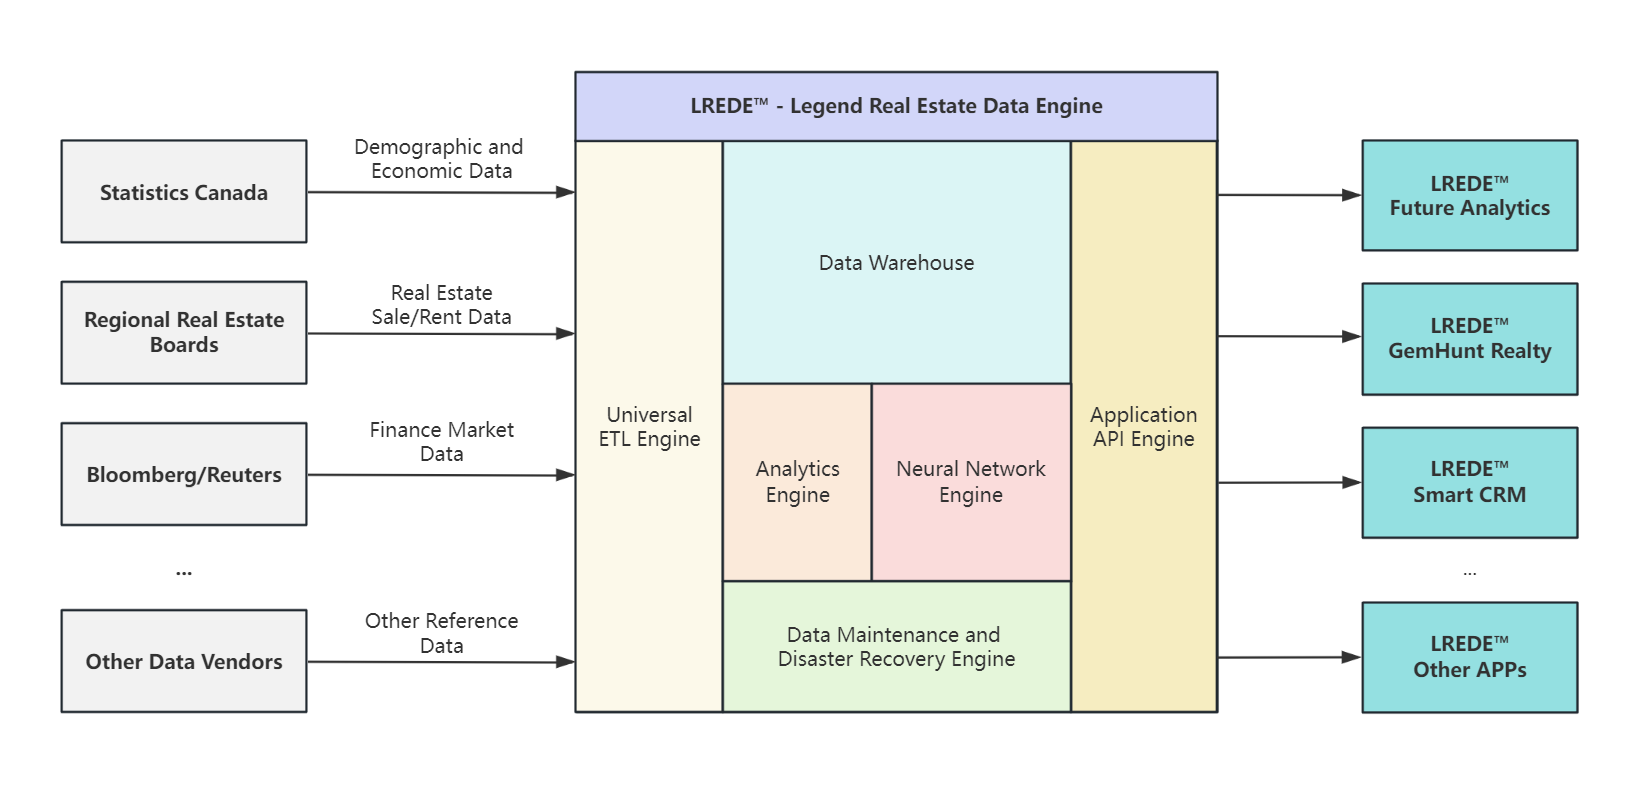
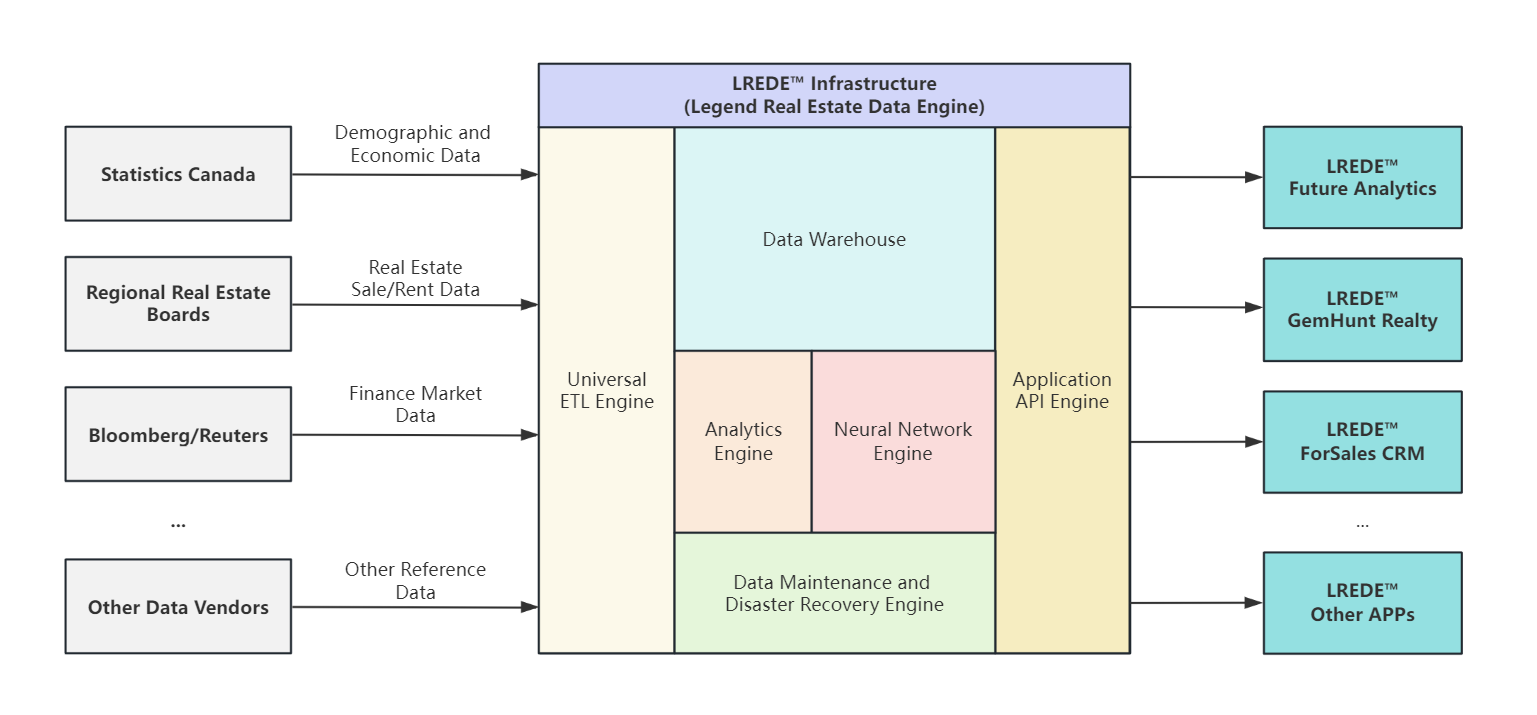
1

Changed region(s): [[0.0312, 0.0615, 0.9681, 0.9231], [0.4997, 0.3077, 0.5934, 0.3385]]

diff --git a/prod/lrede_prod_plan.md b/prod/lrede_prod_plan.md
@@ -40,7 +40,7 @@ LREDE™ applications, built on the LREDE™ infrastructure, offer a diverse set
 
 - Highlight
 
-    - Data Analytics: The data from various vendors, presented in a visually intuitive format, include not only real estate market data (such as transactions and supply and demand metrics), but also indirect factors that influence the market (such as mortgage and exchange rates, construction material and cost indices, and economic indicators). 
+    - Data Analytics: The data from various vendors, presented in a visually intuitive format, include not only real estate market data (such as transactions and supply and demand metrics), but also indirect factors that influence the market (such as interest rates and exchange rates, construction material and labour cost indices, and economic indicators). 
 
     - AI Trend Prediction: Powered by the LREDE™ Neural Network Engine, this feature utilizes RNN models to predict future trends in real estate market metrics. The design benchmarks, established using 10 years of historical data, are detailed as follows*:
       | Forecast Period | Accuracy |
@@ -92,7 +92,7 @@ LREDE™ applications, built on the LREDE™ infrastructure, offer a diverse set
 - Target Customer
 
     - Consumer User: Home Buyer and Sellers
-    - Business User: Real Estate Agent, Mortgate Broker
+    - Business User: Real Estate Agent, Mortgage Broker
     
 - Business Model
 
@@ -124,7 +124,7 @@ LREDE™ applications, built on the LREDE™ infrastructure, offer a diverse set
 
 - Target Customer
 
-    - Real Estate Agent, Mortgate Broker
+    - Real Estate Agent, Mortgage Broker
     - Users with other low frequency but high net worth sales scenarios
 
 - Business Model
